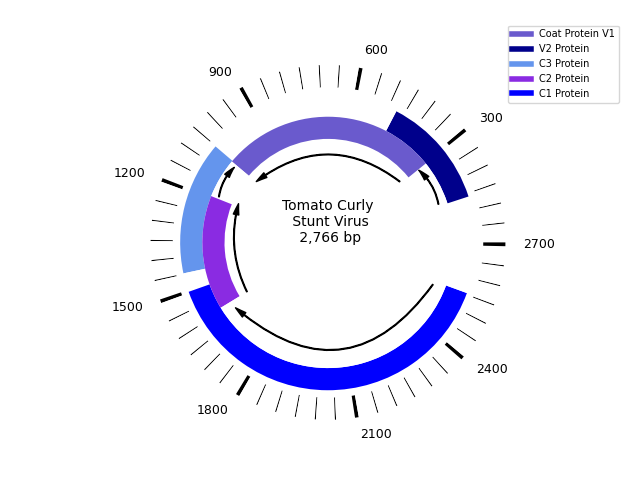
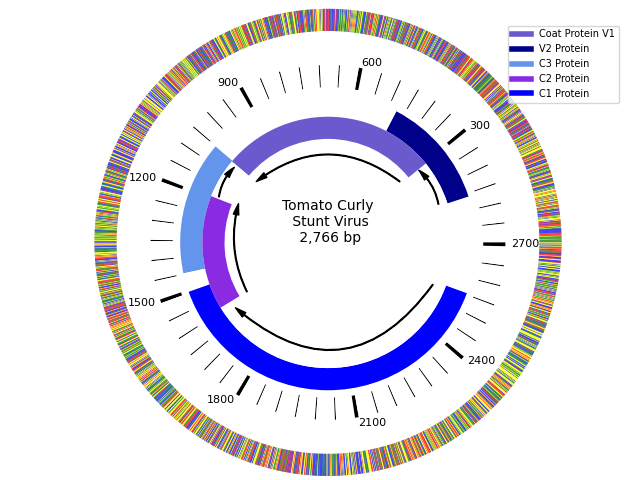
Base Pairs
Added base pairs visual representation

Changed region(s): [[0.125, 0.0, 0.875, 1.0]]

diff --git a/GenomeCircularGraph.py b/GenomeCircularGraph.py
@@ -35,8 +35,7 @@ from matplotlib.lines import Line2D
 
 with open("Genome.gb", "r") as handle:
      for seq_record in SeqIO.parse(handle, "genbank"):
-          print(seq_record.id)
-          print(repr(seq_record.seq))
+          gen_sequence = seq_record.seq #get the genome sequence
           for feature in seq_record.features:
                if feature.type == "CDS":
                     base_span = feature.location
@@ -50,7 +49,24 @@ with open("Genome.gb", "r") as handle:
 # gene v1 and v2 overlap
 # v1 and c3 overlap
 # gene c1, c2 &  c2, c3 overlap 
- 
+arr = list(gen_sequence) #put the gen sequence into an array of characters
+base_names = []
+base_colors = []
+base_size=[]
+for x in range(0,len(arr)): #go through bases and assign colors and increment size for each base
+     if arr[x] == 'A':
+          base_colors.append('Blue')
+          base_size.append(1)
+     if arr[x] == 'C':
+          base_colors.append('Red') 
+          base_size.append(1)  
+     if arr[x] == 'G':
+          base_colors.append('Green')
+          base_size.append(1)
+     if arr[x] == 'T':
+          base_colors.append('Yellow')
+          base_size.append(1)
+
 fig, ax = plt.subplots()
 names = '', 'v2', '', 'c3','','c1','' 
 overlap_names = '','v1','','c2', ''
@@ -62,7 +78,8 @@ bp_ticks_names = ['','','','','','','','','','','','300','','','','','','','',''
 outside, _ = ax.pie(size,  colors=['white','darkblue','white','cornflowerblue','white','blue','white'], radius=1)
 inside, _ = ax.pie([299,776,142, 407,1142], colors=['white','slateblue','white', 'blueviolet', 'white'], radius=1-width)
 #ticks to use as a guide for bp where genes are located
-bp_ticks, _ = ax.pie([50,3,50,3,50,3,50,3,50,3,50,10,50,3,50,3,50,3,50,3,50,3,50,10,50,3,50,3,50,3,50,3,50,3,50,10,50,3,50,3,50,3,50,3,50,3,50,10,50,3,50,3,50,3,50,3,50,3,50,10,50,3,50,3,50,3,50,3,50,3,50,10,50,3,50,3,50,3,50,3,50,3,50,10,50,3,50,3,50,3,50,3,50,3,50,10,50,3,50,3,50,3,50,3,50,3,50,10], labels=bp_ticks_names, colors=['white','black', 'white','black','white', 'black', 'white', 'black', 'white', 'black', 'white', 'black', 'white', 'black', 'white', 'black', 'white', 'black', 'white', 'black'], radius=1.2, labeldistance=1.1, textprops={'fontsize': 9})
+bp_ticks, _ = ax.pie([50,3,50,3,50,3,50,3,50,3,50,10,50,3,50,3,50,3,50,3,50,3,50,10,50,3,50,3,50,3,50,3,50,3,50,10,50,3,50,3,50,3,50,3,50,3,50,10,50,3,50,3,50,3,50,3,50,3,50,10,50,3,50,3,50,3,50,3,50,3,50,10,50,3,50,3,50,3,50,3,50,3,50,10,50,3,50,3,50,3,50,3,50,3,50,10,50,3,50,3,50,3,50,3,50,3,50,10], labels=bp_ticks_names, colors=['white','black', 'white','black','white', 'black', 'white', 'black', 'white', 'black', 'white', 'black', 'white', 'black', 'white', 'black', 'white', 'black', 'white', 'black'], radius=1.2, labeldistance=1.03, textprops={'fontsize': 8})
+bases, _ = ax.pie(base_size, colors=base_colors, radius=1.58)
 p=plt.gcf() #get current figure
 
 style = "Simple, tail_width=0.5, head_width=4, head_length=8"
@@ -84,7 +101,7 @@ ax.text(0, 0, 'Tomato Curly\n Stunt Virus\n 2,766 bp', ha='center',
      bbox=dict(boxstyle='round', edgecolor='none', color='white'),
      )
 
-plt.setp(inside + outside + bp_ticks, width=width)
+plt.setp(bases+ inside + outside + bp_ticks, width=width)
 
 #add patches of arrows to graph
 for x in [v1,v2,c3,c2,c1]:
